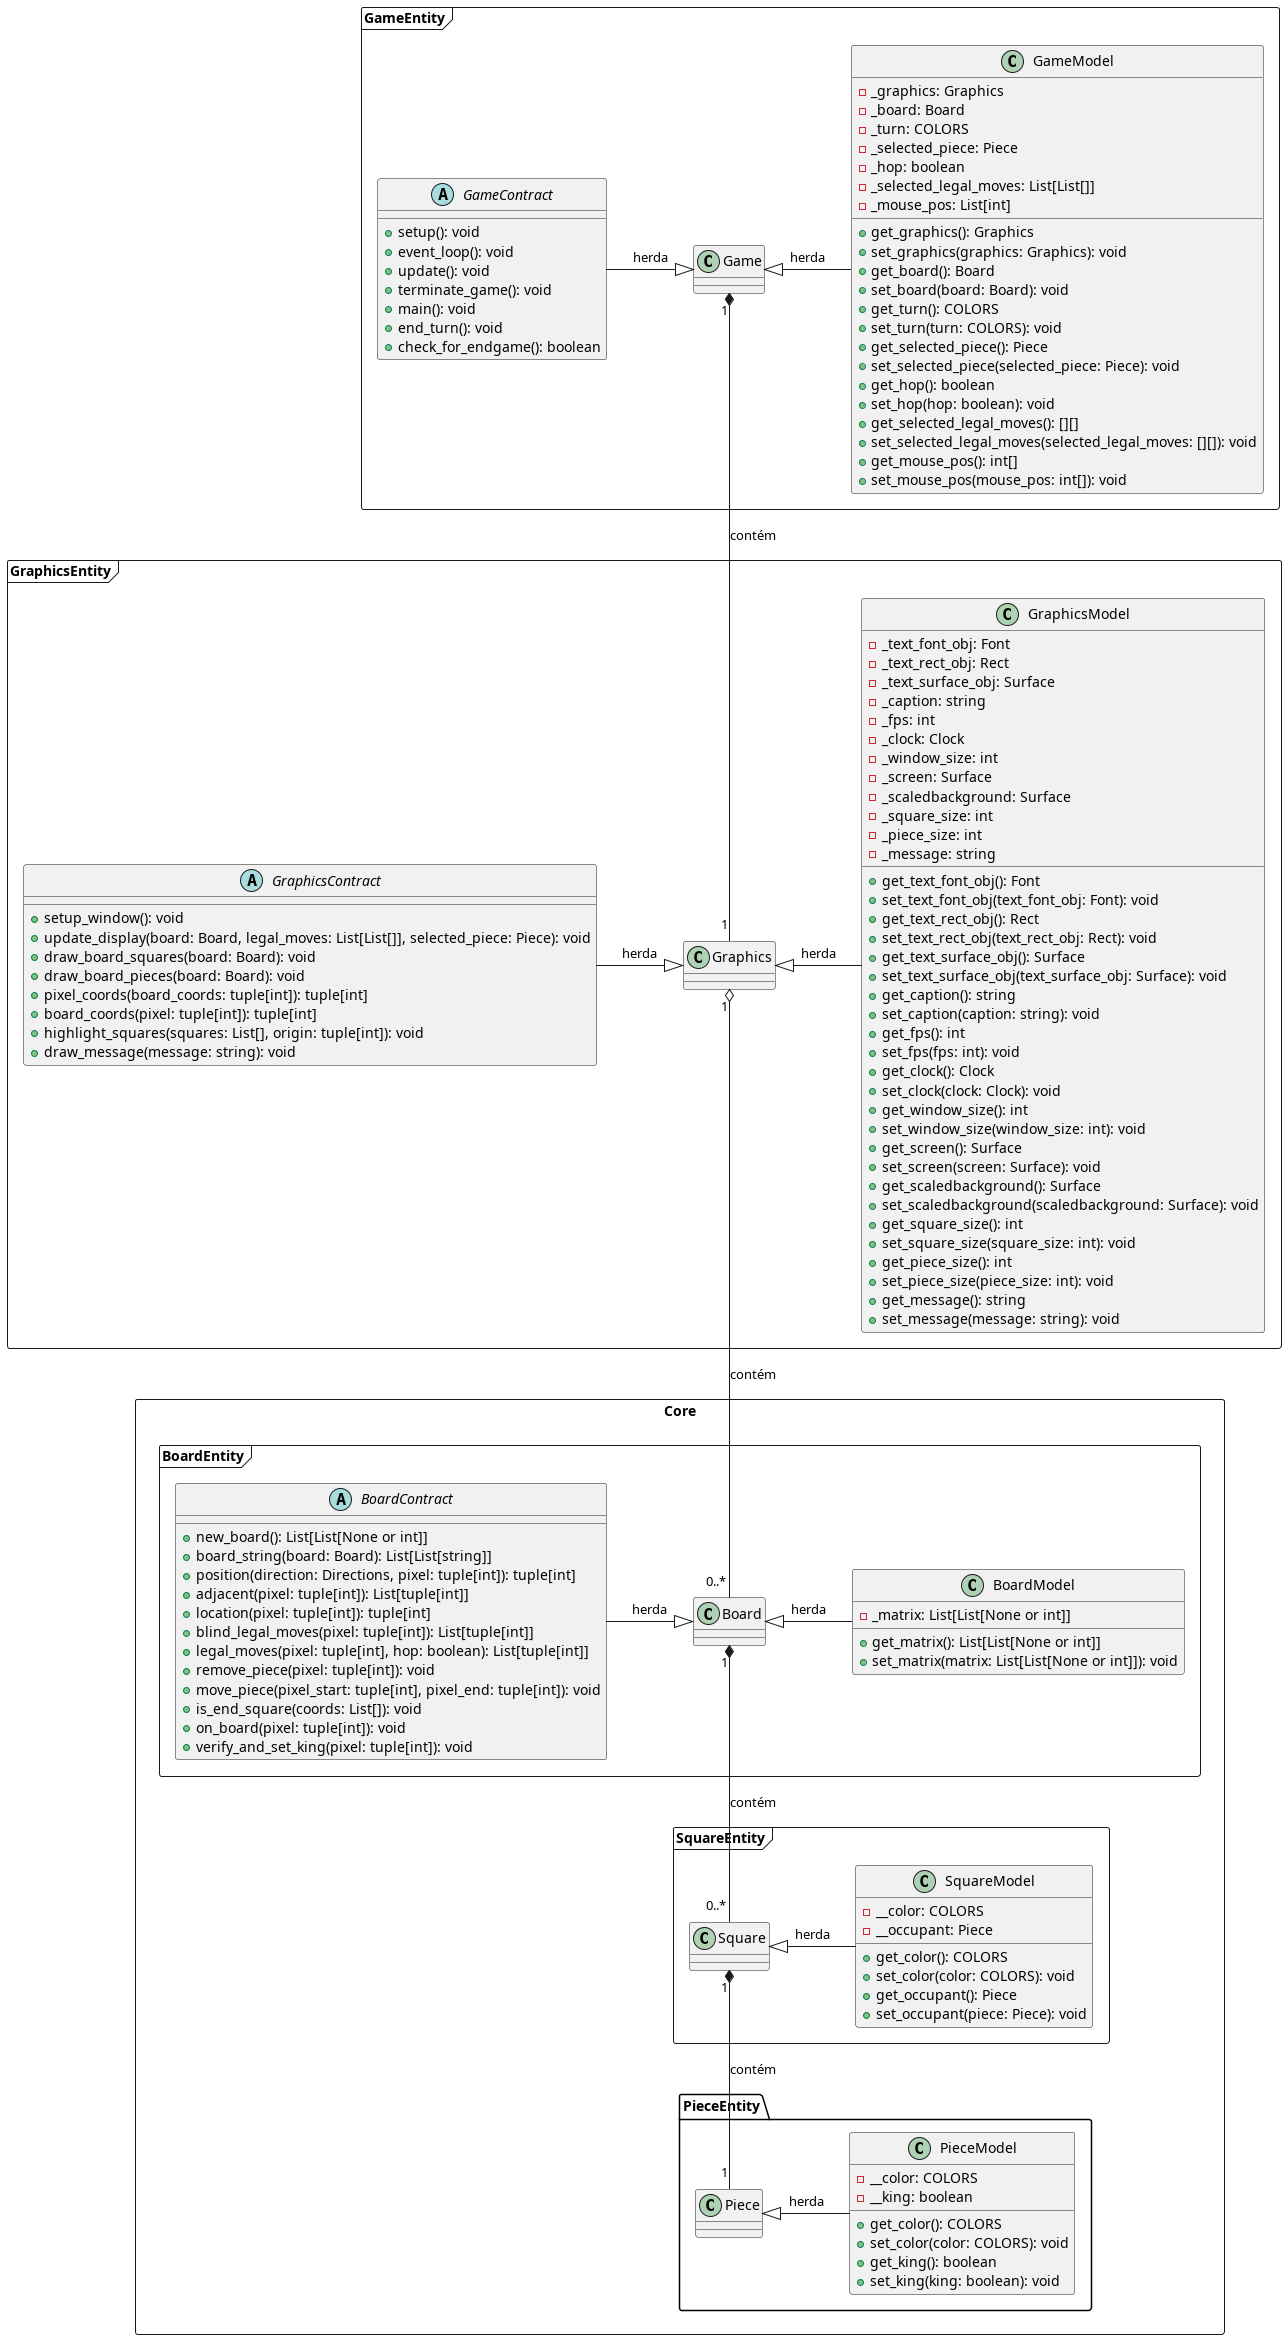
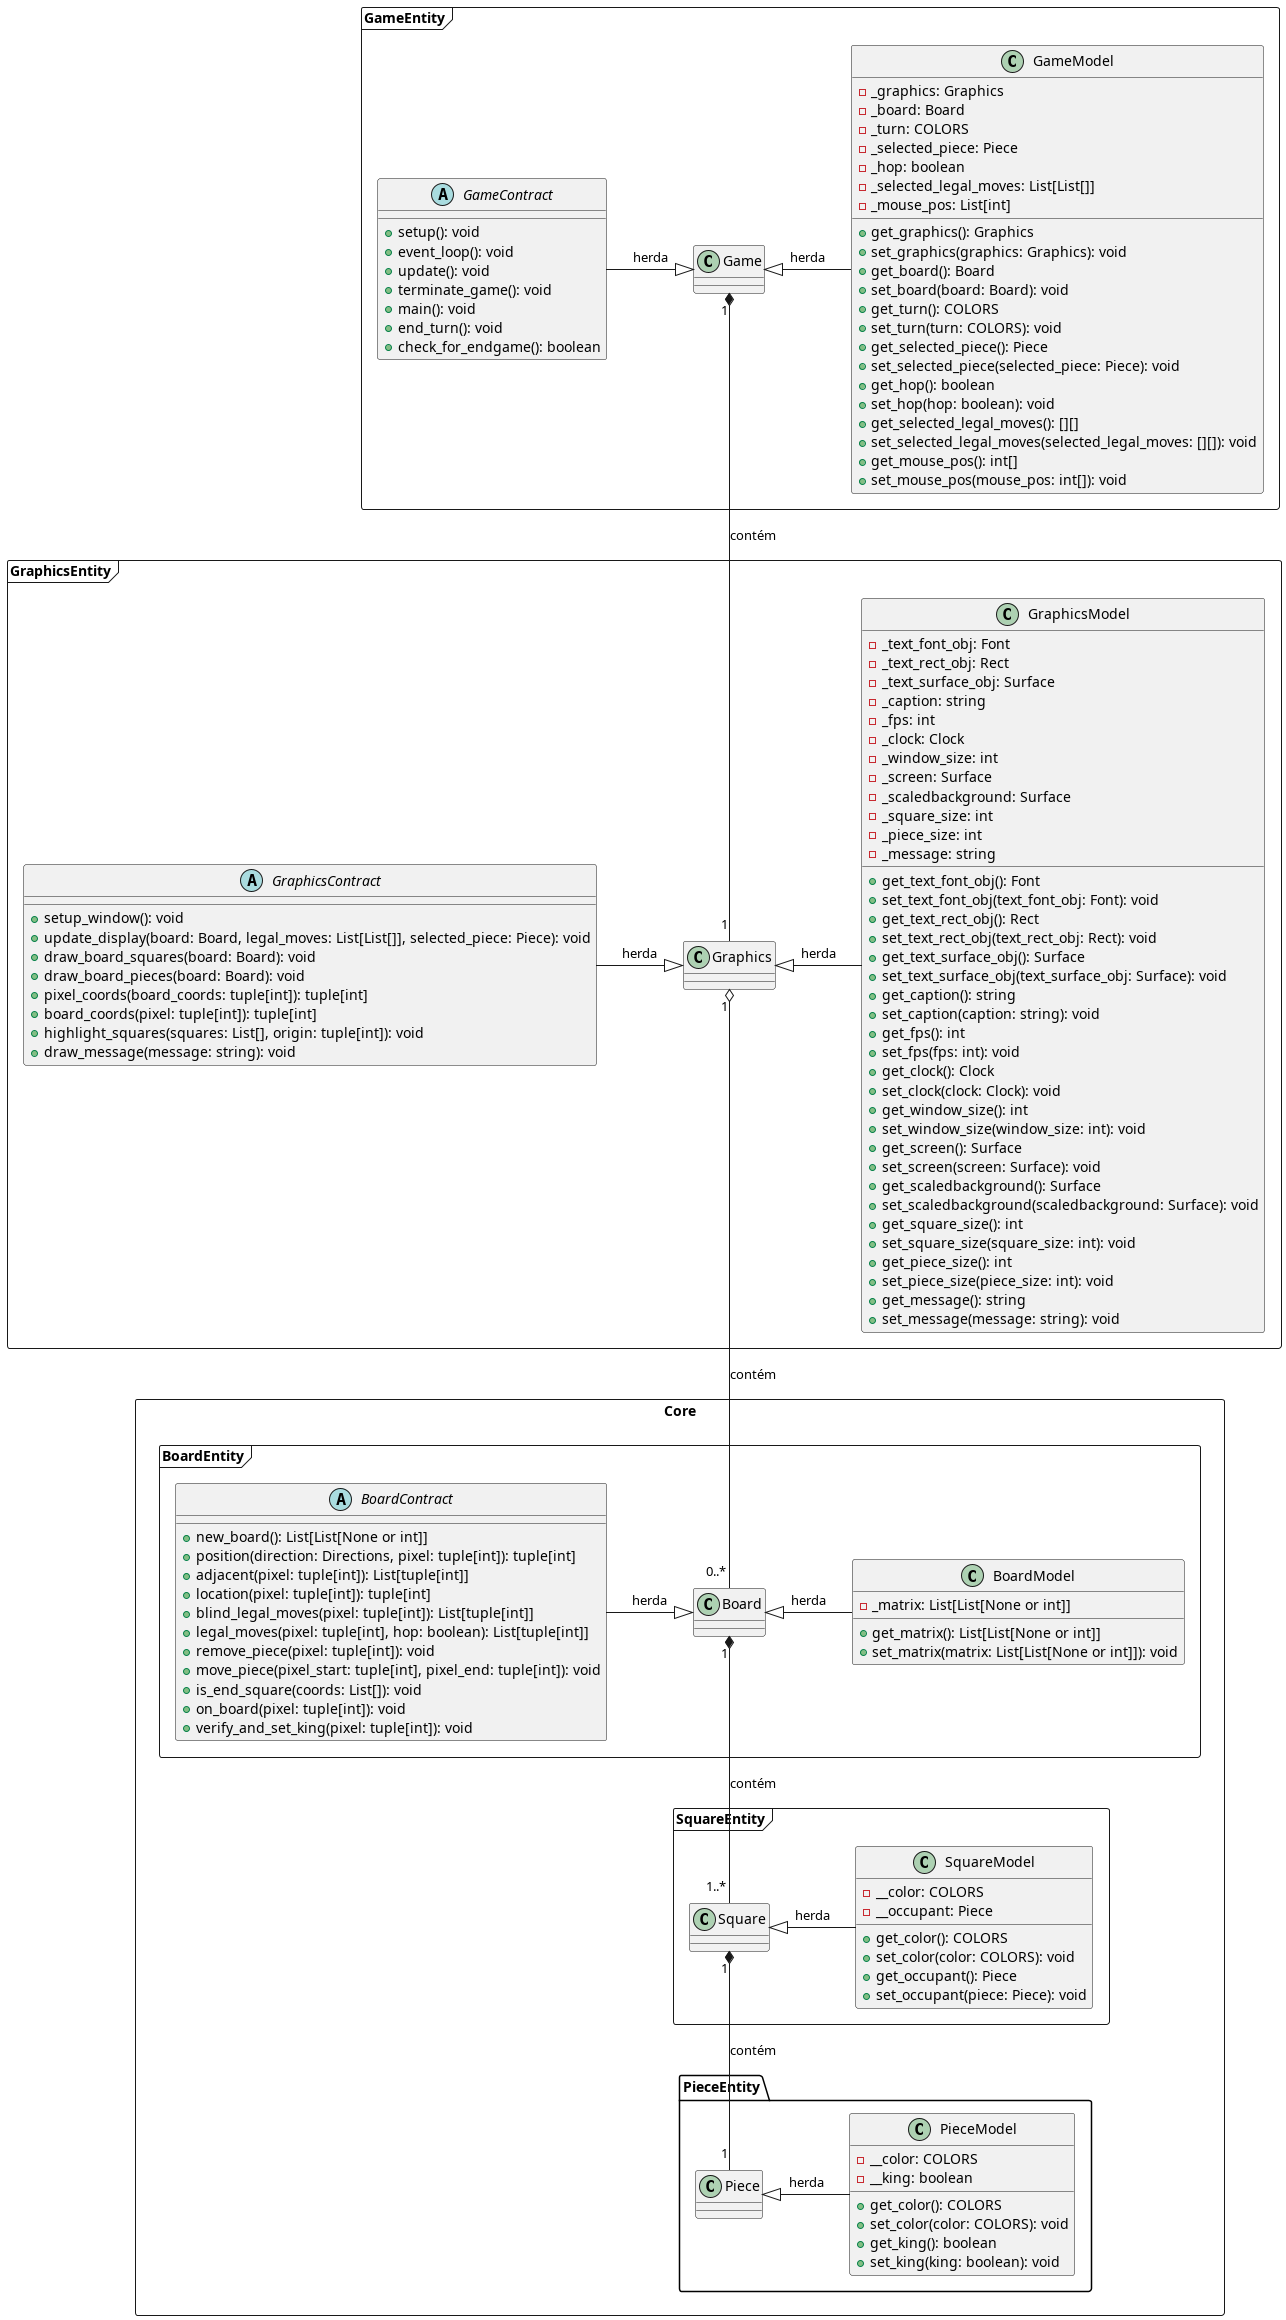
fix: remove func nao utilizada

diff --git a/classes/board/board.py b/classes/board/board.py
@@ -38,19 +38,6 @@ class Board(BoardModel, BoardContract):
 
         return matrix
 
-    def board_string(self, board):
-        # Pega o board em string e localiza os quadrados pretos e brancos
-        board_string = [[None] * 8] * 8
-
-        for x in range(8):
-            for y in range(8):
-                if board[x][y].get_color() == COLORS.WHITE.value:
-                    board_string[x][y] = "WHITE"
-                else:
-                    board_string[x][y] = "BLACK"
-
-        return board_string
-
     def position(self, direction, pixel):
         # Devolve as posições a partir da direção dada.
         x = pixel[0]

diff --git a/classes/board/board_contract.py b/classes/board/board_contract.py
@@ -6,11 +6,7 @@ class BoardContract(ABC):
     @abstractmethod
     def new_board(self) -> List[List[None or int]]:
         pass
-
-    @abstractmethod
-    def board_string(self, board):
-       pass
-
+    
     @abstractmethod
     def position(self, direction, pixel):
         pass
